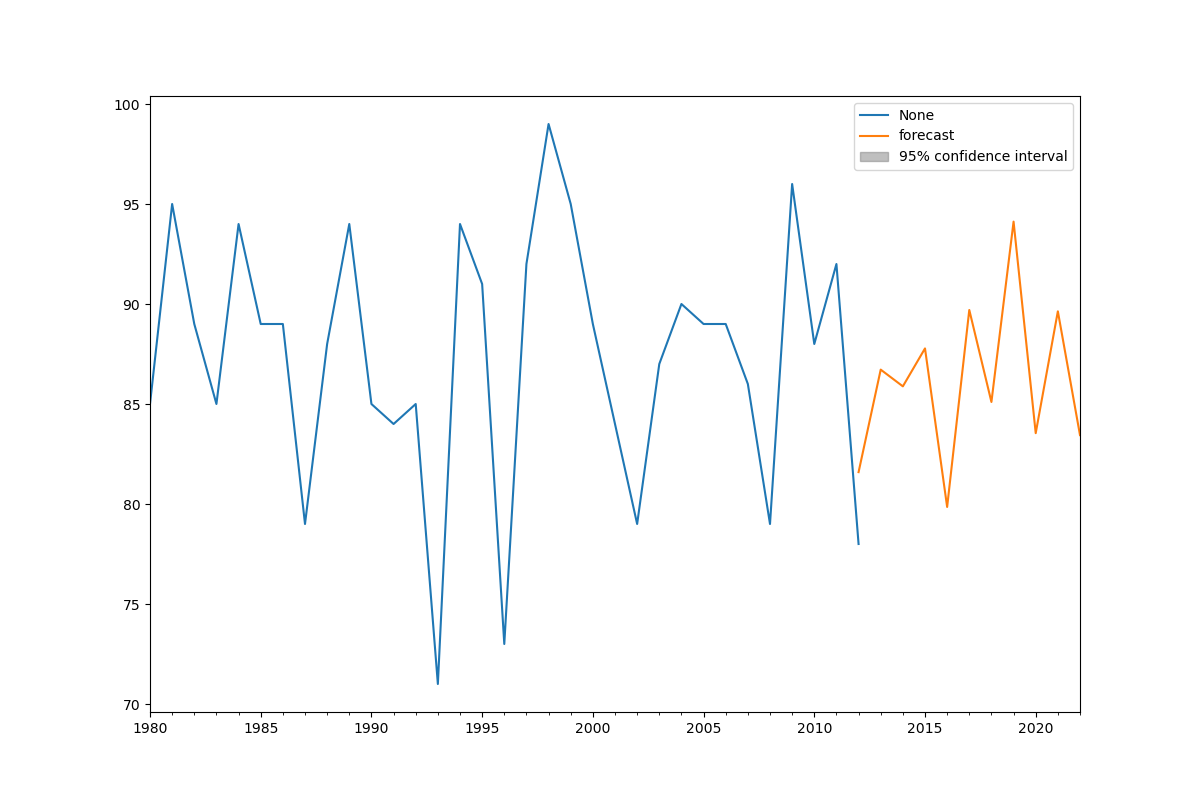
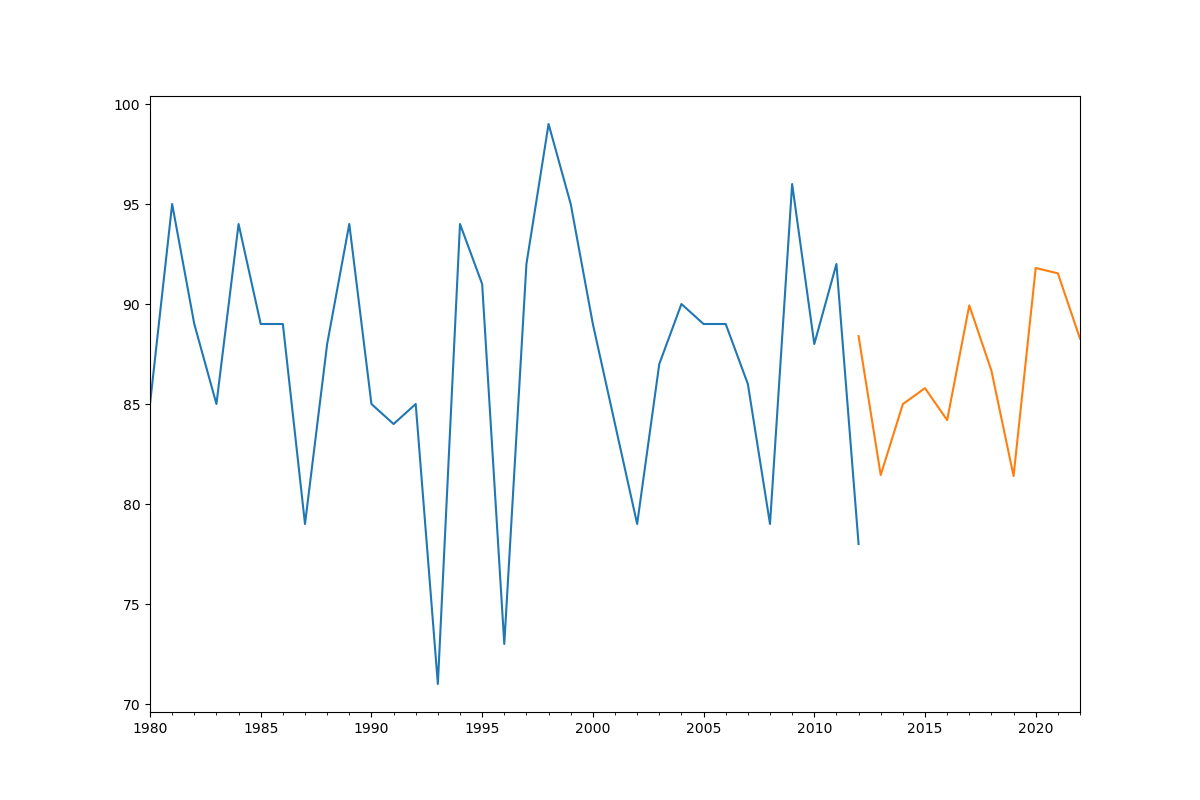
模型更改+可预测每天数据
模型变为了auto_arima；通过改变参数，可预测不同日期的气温。

Changed region(s): [[0.7092, 0.2812, 0.8942, 0.625], [0.7092, 0.125, 0.8942, 0.2188]]

diff --git a/runit.py b/runit.py
@@ -1,5 +1,7 @@
 # coding=gbk
 from flask import Flask
+import pandas as pd
+from mod_timeseries.weather_model import ProcessData
 
 #Define the WSGI application object
 
@@ -24,6 +26,12 @@ def show_user_profile(username):
 def show_post(post_id):
     # show the post with the given id, the id is an integer
     return 'Post %d' % post_id
+
+@app.route('/picture')
+def show_pic():
+    data = pd.read_csv('F:/Git/Weather/maxmin.csv', parse_dates=['date'])
+    p = ProcessData(data, 10, 'max')
+    p.process_minmax()
 
 
 if __name__ == '__main__':

diff --git a/mod_timeseries/file_transfer.py b/mod_timeseries/file_transfer.py
@@ -7,7 +7,9 @@ class SendFile():
 
     def send(self):
         s = socket.socket(socket.AF_INET, socket.SOCK_STREAM)
+        print(11111111)
         s.connect(self.address)
+        print(22222222)
         send_file = os.path.normcase(self.fileName)
         try:
             f = open(send_file, "rb")

diff --git a/mod_timeseries/test.py b/mod_timeseries/test.py
@@ -3,5 +3,8 @@ from mod_timeseries.weather_model import ProcessData
 
 data = pd.read_csv('F:/Git/Weather/maxmin.csv', parse_dates = ['date'])
 
+data.query("date.dt.day == 28 & date.dt.month == 6",inplace = True)
+#print(data)
+
 p = ProcessData(data,10,'max')
 p.process_minmax()
